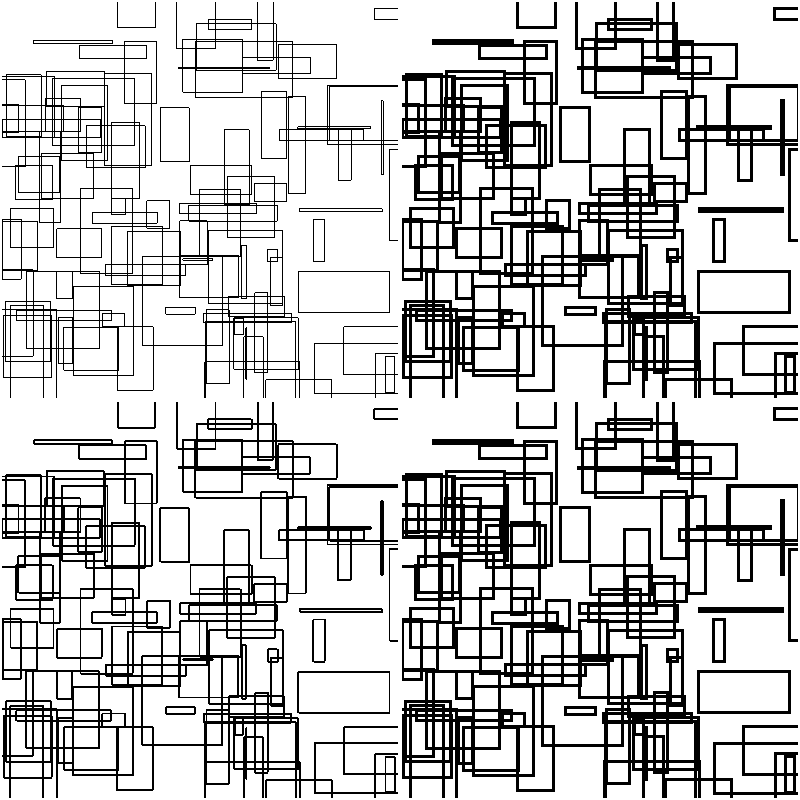
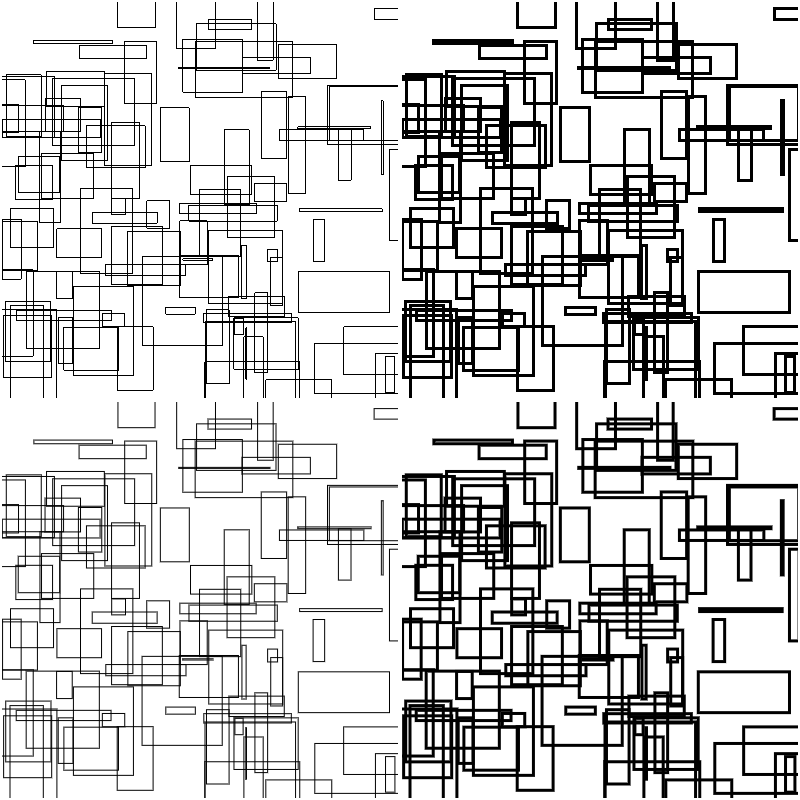
re-re-enable antialiased rects for gpu

diff --git a/src/gpu/SkGpuDevice.cpp b/src/gpu/SkGpuDevice.cpp
@@ -729,7 +729,7 @@ static void strokeDevAARect(GrContext* ctx, const GrPaint& paint,
         fillDevAARect(ctx, paint, r);
         return;
     }
-    
+
     GrAutoMatrix avm(ctx, GrMatrix::I());
 
     GrPoint verts[16];
@@ -748,6 +748,20 @@ static void strokeDevAARect(GrContext* ctx, const GrPaint& paint,
     ctx->drawVertices(paint, kTriangles_PrimitiveType,
                       16, verts, texs, colors,
                       gStrokeAARectIdx, SK_ARRAY_COUNT(gStrokeAARectIdx));
+}
+
+/*
+ *  If the paint has a texture, preconcat the ctx's inverse, since when we
+ *  draw verts which are already in device coordinates, we need to "undo" that
+ *  before we run our vertex shaders, which expect the coordinates to be local.
+ */
+static void preConcatInverseToTextureMatrix(GrContext* ctx, GrPaint* paint) {
+    if (paint->getTexture()) {
+        GrMatrix inverse;
+        if (ctx->getMatrix().invert(&inverse)) {
+            paint->fSampler.preConcatMatrix(inverse);
+        }
+    }
 }
 
 void SkGpuDevice::drawRect(const SkDraw& draw, const SkRect& rect,
@@ -770,7 +784,6 @@ void SkGpuDevice::drawRect(const SkDraw& draw, const SkRect& rect,
         }
 
         bool doAA = paint.isAntiAlias();
-        doAA = false;
 
         if (SkDraw::kHair_RectType == type && doAA) {
             strokeSize.set(SK_Scalar1, SK_Scalar1);
@@ -786,6 +799,7 @@ void SkGpuDevice::drawRect(const SkDraw& draw, const SkRect& rect,
                 if (doAA) {
                     SkRect devRect;
                     matrix.mapRect(&devRect, rect);
+                    preConcatInverseToTextureMatrix(fContext, &grPaint);
                     fillDevAARect(fContext, grPaint, Sk2Gr(devRect));
                 } else {
                     fContext->drawRect(grPaint, Sk2Gr(rect), -1);
@@ -795,6 +809,7 @@ void SkGpuDevice::drawRect(const SkDraw& draw, const SkRect& rect,
                 if (doAA) {
                     SkRect devRect;
                     matrix.mapRect(&devRect, rect);
+                    preConcatInverseToTextureMatrix(fContext, &grPaint);
                     strokeDevAARect(fContext, grPaint, Sk2Gr(devRect), strokeSize);
                 } else {
                     fContext->drawRect(grPaint, Sk2Gr(rect), paint.getStrokeWidth());
